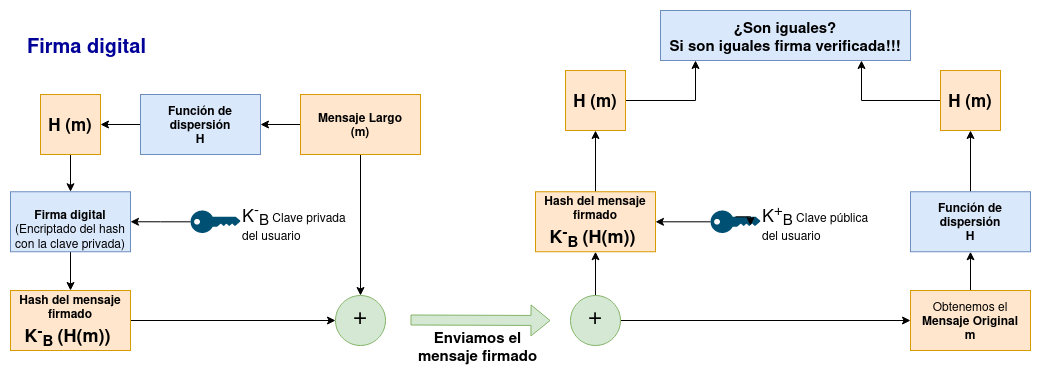
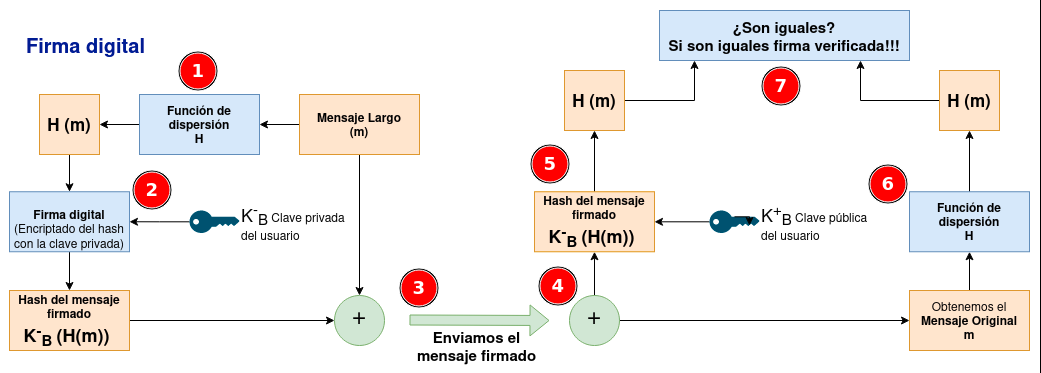
new post

diff --git a/_posts/2023-10-14-introduccion-criptografia.md b/_posts/2023-10-14-introduccion-criptografia.md
@@ -1,0 +1,81 @@
+---
+title: 'Introducción a la criptografía'
+permalink: /2023/10/introduccion-criptografia/
+tags:
+  - Criptografía
+  - Seguridad
+  - Manuales
+---
+
+La **Criptografía** (que viene de dos palabras "cripto" (**secreto**) y "grafía" (**escritura**)) nos permite el **cifrado** o **codificación** de mensajes con el fin de hacerlos ininteligibles. Puedes profundizar en este concepto en la [Wikipedia](https://es.wikipedia.org/wiki/Criptograf%C3%ADa).
+
+Veamos algunos conceptos sobre criptografía:
+
+![croptografía]({{ site.url }}{{ site.baseurl }}/assets/wp-content/uploads/2023/10/criptografia1.png){: .align-center }
+
+* **Emisor**: Cualquier persona o sistema (navegadores web, servicios, routers,...) que quieren enviar un mensaje de forma segura.
+* **Receptor**: Cualquier persona o sistema que quiere recibir un mensaje de forma segura.
+* **Atacante**: Cualquier persona o sistema que trata de leer, eliminar, modificar,... el mensaje enviado por el emisor hacia el receptor.
+* **Algoritmo de encriptación/desencriptación**: Operación matemática que nos permite a partir de una **clave de encriptación** cifrar el mensaje que queremos enviar a un mensaje cifrado. Este mensaje cifrado podremos descifrarlo a partir de una **clave de desencriptación**.
+
+Podemos indicar dos tipos de criptografía dependiendo de las claves usadas:
+
+* **Criptografía de clave simétrica**: Las claves de usadas por el emisor y el receptor son las mismas.
+* **Criptografía de clave asimétrica o de clave pública**: Cada usuario tiene una **clave pública** conocida por todos y una **clave privada**, que es secreta.
+
+<!--more-->
+
+## Criptografía de clave simétrica
+
+![croptografía]({{ site.url }}{{ site.baseurl }}/assets/wp-content/uploads/2023/10/criptografia2.png){: .align-center }
+
+Como hemos indicado anteriormente el emisor y el receptor usan **la misma clave** para cifrar y descifrar el mensaje. Por lo tanto, el emisor y el receptor, antes de poder comunicarse, deben ponerse de acuerdo en el valor de la clave. Una vez que ambas partes tienen acceso a esta clave, el remitente cifra un mensaje usando la clave, lo envía al destinatario, y este lo descifra con la misma clave. 
+
+Los algoritmos usados en la criptografía simétrica (por ejemplo, **aes**) son principalmente operaciones booleanas y de transposición, y es **más eficiente que la criptografía asimétrica**. 
+
+## Criptografía asimétrica
+
+![croptografía]({{ site.url }}{{ site.baseurl }}/assets/wp-content/uploads/2023/10/criptografia3.png){: .align-center }
+
+En este tipo de criptografía, el emisor y el receptor  no comparten clave secreta. Cada usuario tiene una clave de encriptación que es **pública**, y por lo tanto conocida por todos. La clave de desencriptación es **privada**, conocida sólo por el receptor.
+
+Por lo tanto en este caso, utilizando distintos tipos de algoritmos (por ejemplo DSA o RSA) cualquier usuario puede puede cifrar un mensaje usando **la clave pública de un usuario**, sólo este usuario podrá descifrar el mensaje usando su **clave privada**.
+
+Este tipo de criptografía es más compleja que la simétrica, por lo tanto es menos eficiente, aunque es más segura.
+
+En al mayoría de los protocolos que usan criptografía para cifrar la información que se trasmite (por ejemplo, ssh o https) utilizamos las dos tipos de criptografía que hemos estudiado:
+* **Criptografía simétrica** para el **cifrado de la información**, ya que es mucho más eficiente. 
+* **Criptografía asimétrica**, para transmitir de forma segura la clave de encriptación simétrica entre el emisor y el receptor.
+
+## Firma digital
+
+Antes de seguir explicando la firma digital, vamos a introducir el concepto de **función de dispersión o hash**. Por medio de un algoritmo (por ejemplo MD5, SHA-1,...) a partir de un fichero se obtiene un resumen de tamaño fijo. Evidentemente, a partir del resultado (hash) no podemos generar el fichero original. Podemos utilizar los hash para comprobar la **integridad** de un fichero. Por ejemplo, si sabemos el hash de un fichero, si lo descargamos podemos volver a ejecutar la función de dispersión para comprobar si hemos descargado un fichero corrupto. Si el hash del fichero descargado es igual que el hash del fichero original, podemos asegurar la integridad del fichero.
+
+Una firma digital certifica un documento y le añade una marca de tiempo. Si posteriormente el documento fuera modificado en cualquier modo, el intento de verificar la firma fallaría. La utilidad de una firma digital es la misma que la de una firma escrita a mano, sólo que la digital tiene una resistencia a la falsificación.
+Para que un usuario firme un mensaje utilizará su clave privada, y para poder verificar dicha firma se utilizará la clave pública del usuario.
+
+Por lo tanto firmando un mensaje estamos asegurando su autenticidad, su integridad (que no ha sido modificado) y el no repudio (garantiza al receptor que el mensaje ha sido generado por el emisor).
+
+Resulta computacionalmente caro encriptar mensajes largos con nuestra calve privada para firmarlos. Por lo que al firmar un documento, vamos a calcular su hash lo vamos a encriptar con la clave privada del emisor. 
+
+![croptografía]({{ site.url }}{{ site.baseurl }}/assets/wp-content/uploads/2023/10/criptografia4.png){: .align-center }
+
+Como vemos en el gráfico, tenemos un fichero que queremos firmar. Para ello:
+
+1. Se calcula el hash usando una función de dispersión.
+2. El hash se firma, es decir se cifra usando la clave privada del usuario.
+3. Tenemos tres posibilidades para enviar la firma digital:
+      * Si el receptor ya tiene el documento original, sólo mandamos la firma digital. 
+      * Podemos mandar el fichero original y la firma por separado.
+      * Podemos mandar un solo fichero con la el documento original y la firma.
+4. Una vez que el documento es recibido por el receptor puede hacer varias cosas:
+      * Validar la firma, es decir comprobar que realmente ha sido firmada por el usuario emisor.
+      * Validar la firma y recuperar el documento original.
+5. Para validar la firma, se vuelve a calcular el hash del documento.
+6. Se descifra la firma con la clave pública del emisor y nos da el hash que habíamos cifrado en el punto 2.
+7. Si los dos hash (el del punto 5 y el 6) son iguales significa que la validación es correcta
+
+## Anillo de confianza
+
+ 
+
